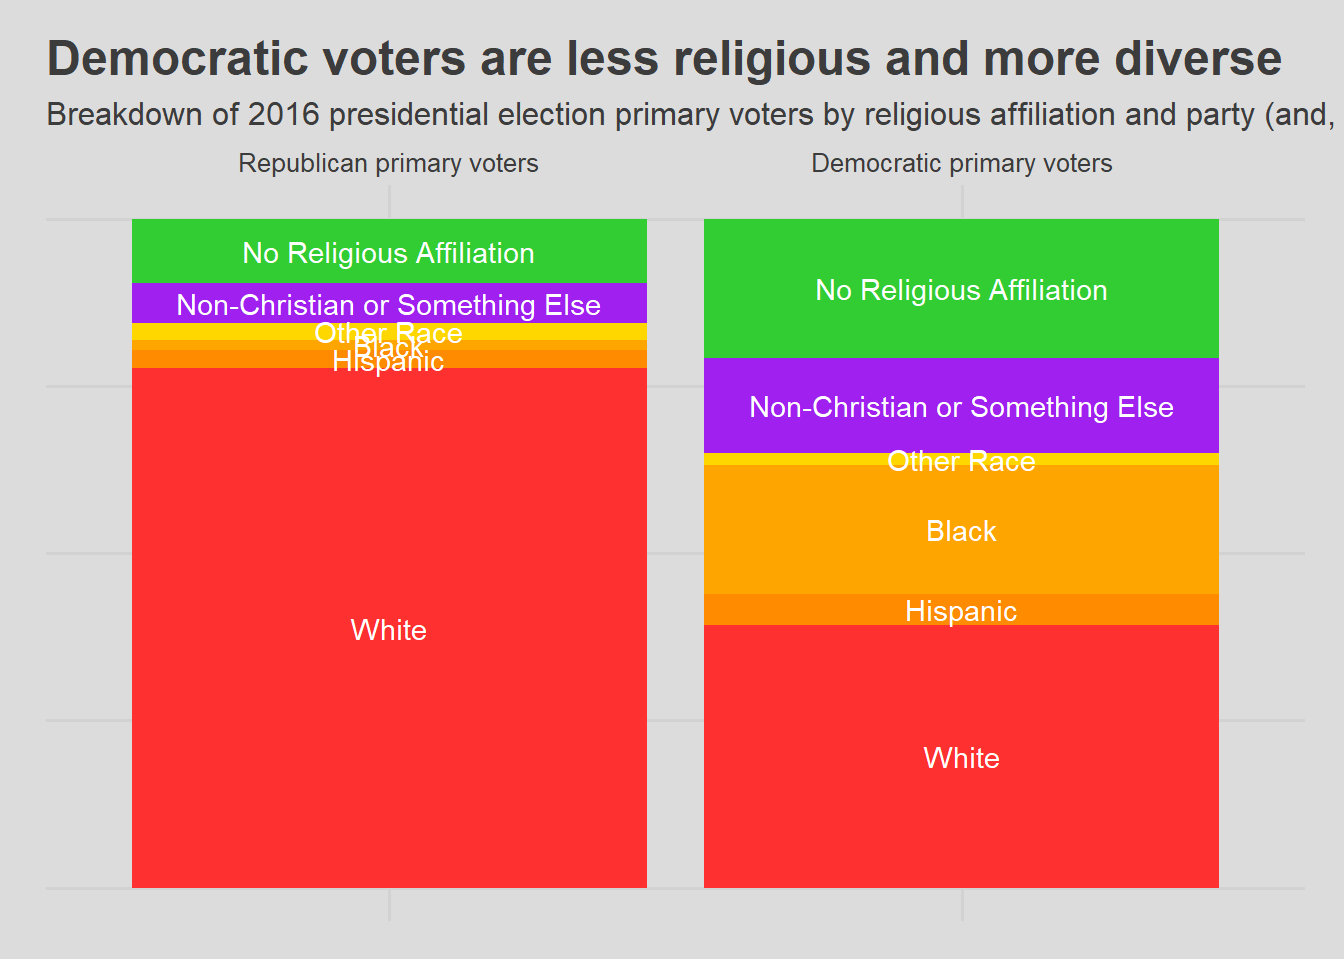
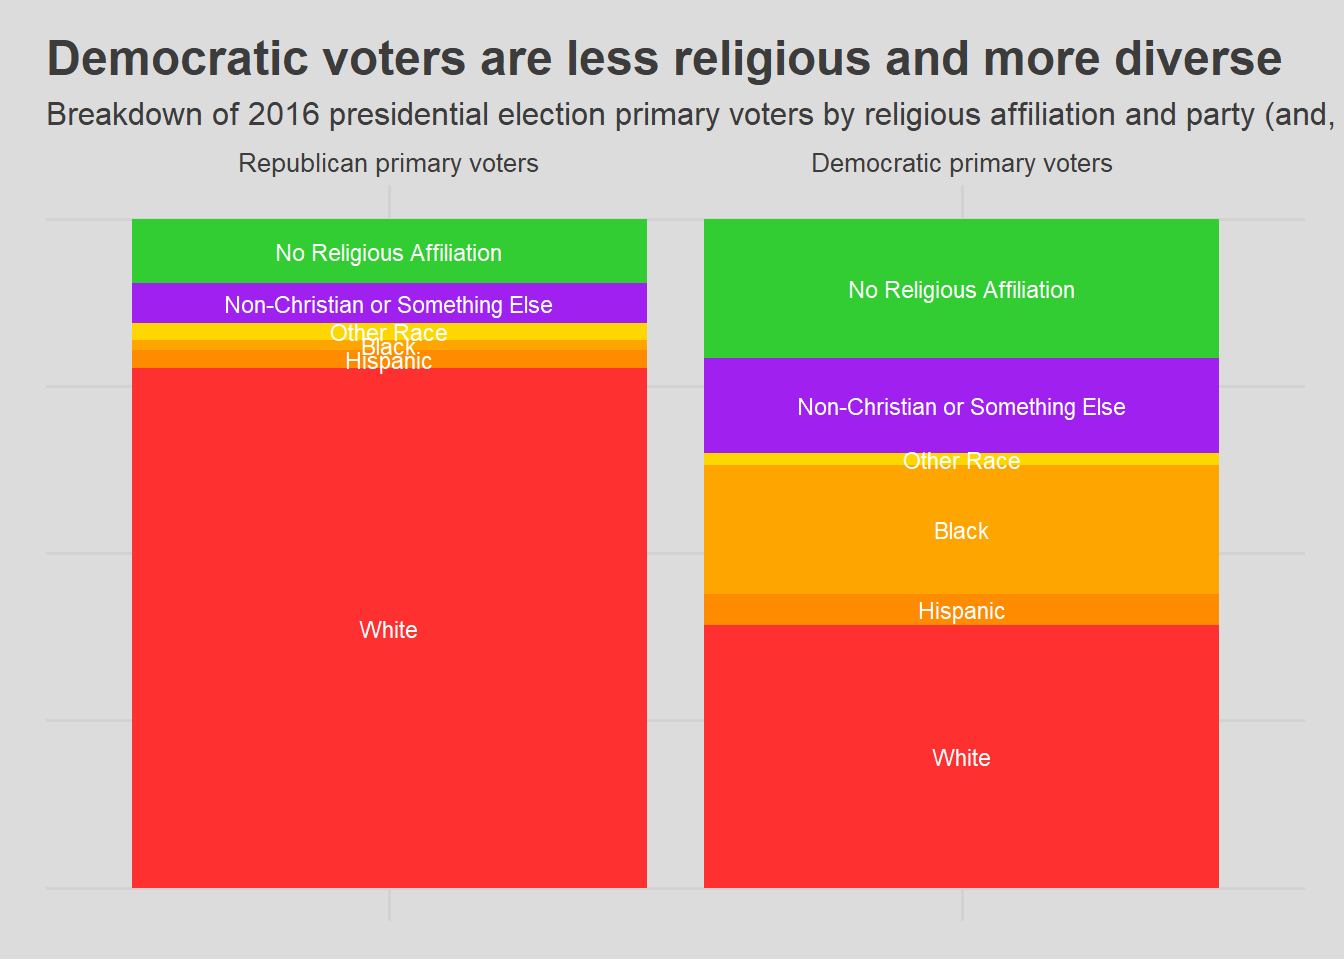
Update in Response to Module 5 Feedback

diff --git a/docs/visualization_exercise.html b/docs/visualization_exercise.html
@@ -395,19 +395,25 @@ time   (4): starttime_pre, endtime_pre, starttime_post, endtime_post
 <span id="cb7-107"><a href="#cb7-107" aria-hidden="true" tabindex="-1"></a>      <span class="at">Hispanic =</span> <span class="st">"darkorange"</span>, </span>
 <span id="cb7-108"><a href="#cb7-108" aria-hidden="true" tabindex="-1"></a>      <span class="at">Black =</span> <span class="st">"orange"</span>)) <span class="sc">+</span> </span>
 <span id="cb7-109"><a href="#cb7-109" aria-hidden="true" tabindex="-1"></a>  <span class="fu">geom_col</span>() <span class="sc">+</span> </span>
-<span id="cb7-110"><a href="#cb7-110" aria-hidden="true" tabindex="-1"></a>  <span class="fu">geom_text</span>(<span class="fu">aes</span>(<span class="at">y =</span> label_y, <span class="at">label =</span> Christian_Racial_Group), <span class="at">colour =</span> <span class="st">"white"</span>) <span class="sc">+</span> </span>
+<span id="cb7-110"><a href="#cb7-110" aria-hidden="true" tabindex="-1"></a>  <span class="fu">geom_text</span>(<span class="fu">aes</span>(<span class="at">y =</span> label_y, <span class="at">label =</span> Christian_Racial_Group), <span class="at">colour =</span> <span class="st">"white"</span>, <span class="at">size =</span> <span class="dv">3</span>) <span class="sc">+</span> </span>
 <span id="cb7-111"><a href="#cb7-111" aria-hidden="true" tabindex="-1"></a>  <span class="fu">labs</span>(<span class="at">title =</span> <span class="st">"Democratic voters are less religious and more diverse"</span>, </span>
-<span id="cb7-112"><a href="#cb7-112" aria-hidden="true" tabindex="-1"></a>  <span class="at">subtitle =</span> <span class="st">"Breakdown of 2016 presidential election primary voters by religious affiliation and party (and, among Christians, race)"</span>) <span class="sc">+</span> </span>
+<span id="cb7-112"><a href="#cb7-112" aria-hidden="true" tabindex="-1"></a>  <span class="at">subtitle =</span> <span class="st">"Breakdown of 2016 presidential election primary voters by religious affiliation and party (and, among Christians, race)"</span>) <span class="sc">+</span></span>
 <span id="cb7-113"><a href="#cb7-113" aria-hidden="true" tabindex="-1"></a>  <span class="fu">theme_fivethirtyeight</span>() <span class="sc">+</span> </span>
-<span id="cb7-114"><a href="#cb7-114" aria-hidden="true" tabindex="-1"></a>  <span class="fu">theme</span>(<span class="at">axis.text.y =</span> <span class="fu">element_blank</span>(), </span>
+<span id="cb7-114"><a href="#cb7-114" aria-hidden="true" tabindex="-1"></a>  <span class="fu">theme</span>(<span class="at">axis.text.y =</span> <span class="fu">element_blank</span>(),</span>
 <span id="cb7-115"><a href="#cb7-115" aria-hidden="true" tabindex="-1"></a>        <span class="at">panel.background =</span> <span class="fu">element_rect</span>(<span class="at">fill =</span> <span class="st">"gainsboro"</span>), </span>
 <span id="cb7-116"><a href="#cb7-116" aria-hidden="true" tabindex="-1"></a>        <span class="at">plot.background =</span> <span class="fu">element_rect</span>(<span class="at">fill =</span> <span class="st">"gainsboro"</span>), </span>
 <span id="cb7-117"><a href="#cb7-117" aria-hidden="true" tabindex="-1"></a>        <span class="at">legend.position =</span> <span class="st">"none"</span>, <span class="at">axis.ticks =</span> <span class="fu">element_blank</span>())</span></code><button title="Copy to Clipboard" class="code-copy-button"><i class="bi"></i></button></pre></div>
 <div class="cell-output-display">
 <p><img src="visualization_exercise_files/figure-html/unnamed-chunk-3-1.png" class="img-fluid" width="672"></p>
 </div>
+<div class="sourceCode cell-code" id="cb8"><pre class="sourceCode r code-with-copy"><code class="sourceCode r"><span id="cb8-1"><a href="#cb8-1" aria-hidden="true" tabindex="-1"></a><span class="fu">ggsave</span>(<span class="st">"visualization_exercise_result.png"</span>, <span class="at">path =</span> <span class="st">"output"</span>, <span class="at">width =</span> <span class="dv">3000</span>, <span class="at">height =</span> <span class="dv">2000</span>, <span class="at">units =</span> <span class="st">"px"</span>)</span></code><button title="Copy to Clipboard" class="code-copy-button"><i class="bi"></i></button></pre></div>
 </div>
 </section>
+</section>
+<section id="monitor-output" class="level1">
+<h1>Monitor Output</h1>
+<p>As occasionally the visualization changes width/height based on monitor display, I decided to save the result as a PNG file so that the scaling would be the same no matter the resolution of the monitor used to view it. Here is the file below:</p>
+<p><img src="output/visualization_exercise_result.png" class="img-fluid" style="width:100.0%"></p>
 </section>
 <section id="concluding-rationales" class="level1">
 <h1>Concluding Rationales</h1>
